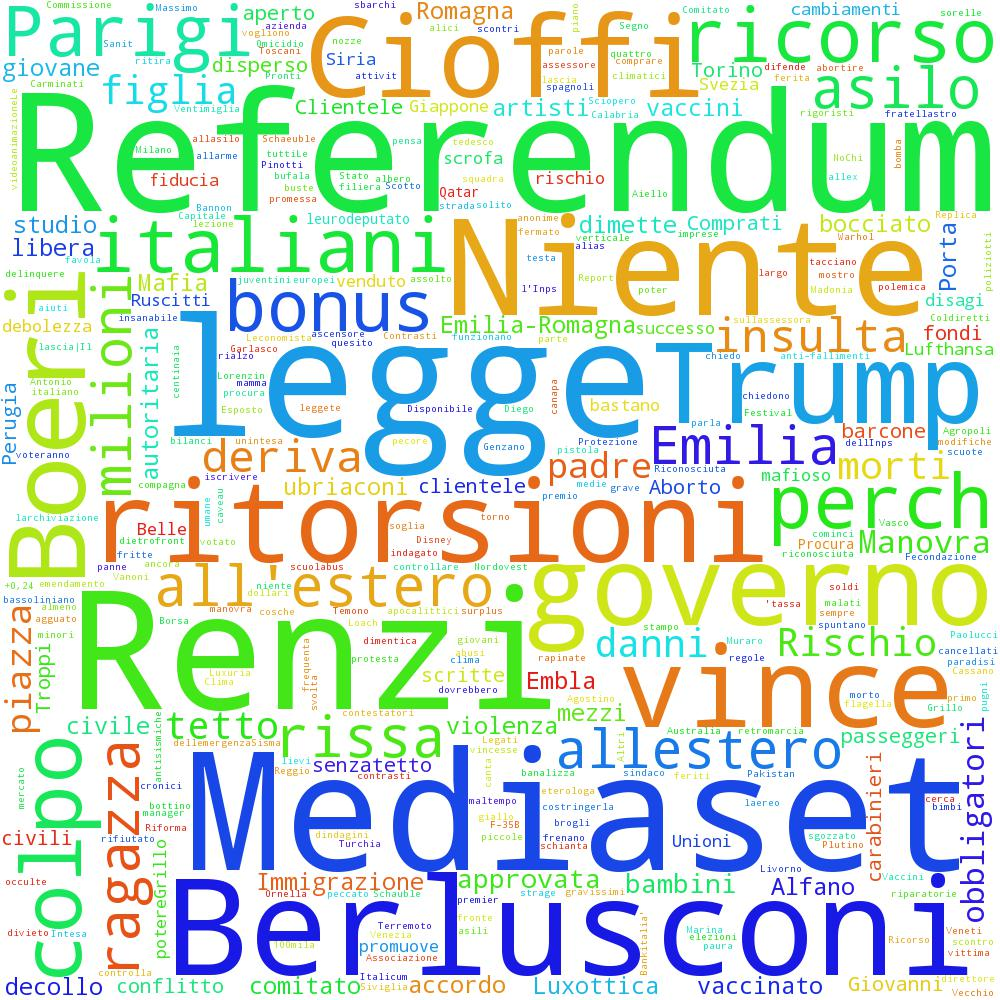
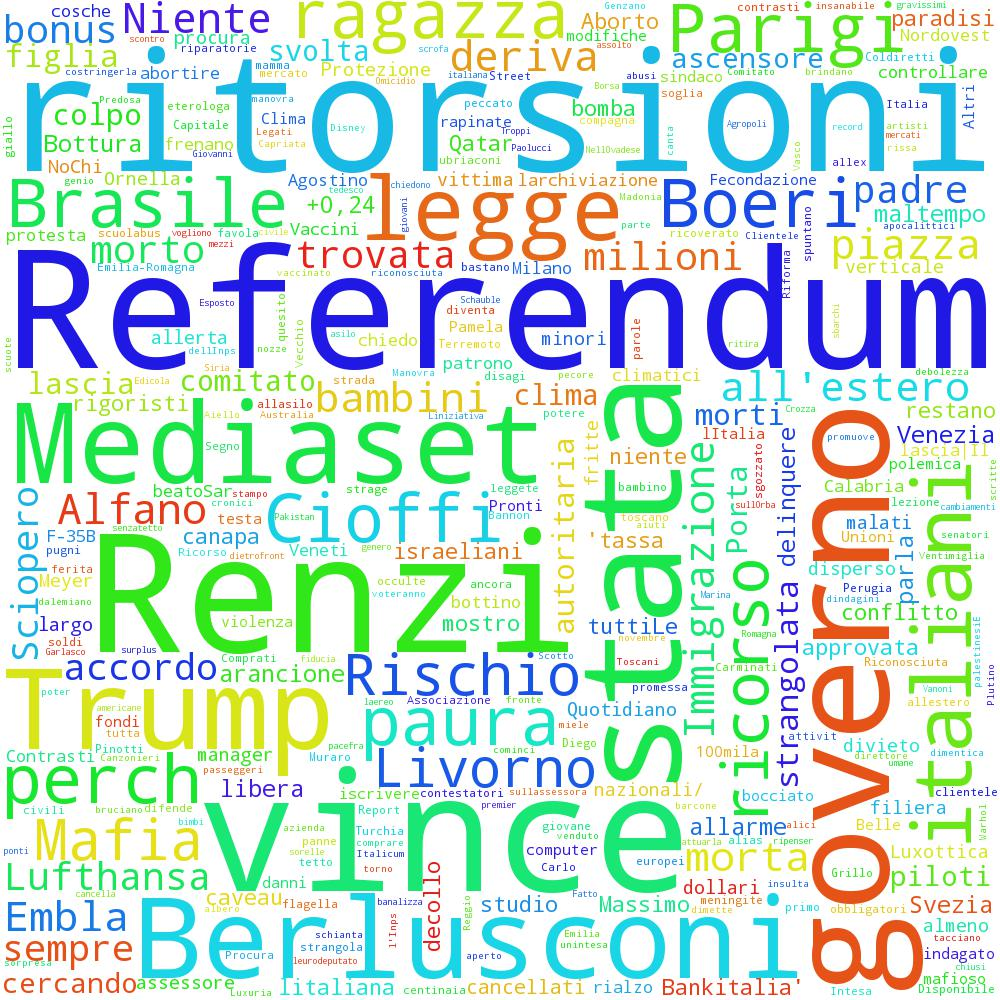
Store images and text related to daily news feed

diff --git a/cloud_maker.py b/cloud_maker.py
@@ -10,7 +10,7 @@ Usage:
     [ --max-font-size=<max-font-size> ]
     [ --canvas=<canvasstring> ]
     [ --color-func=<color-func-name>  --color-func-params=<color-func-params> ]
-    [--logconfig] [--loadconfig=<savedconfig>]
+    [--logconfig] [--loadconfig=<savedconfig>] [--run]
     [--encoding=<encoding>] [--language=<language>] [--min-len=<min-len>]
     [--max-words=<max-words>]
 
@@ -18,6 +18,7 @@ Options:
   -h --help     Show this screen.
   --version     Show vesion.
   --logconfig   Writes a log (<output>.cloudconfig.json)
+  --run         Run Crazy Stuffs.
   --loadconfig=<savedconfig>    Loads a config. Can be overridden with other arguments.
   --fa-mask=<fa-mask>     Use fontawesome mask.
   --ionic-mask=<ionic-mask> Use ionicons mask.
@@ -46,6 +47,8 @@ from copy import copy
 from docopt import docopt
 from clouds import compute_frequencies, save_cloud, make_mask, get_google_font, get_color_func
 from feedsreader import readfeeds
+import os
+import datetime
 import logging
 
 
@@ -134,6 +137,8 @@ if __name__ == '__main__':
 
     text = readfeeds(arguments['<textfile>'])
 
+
+
     logger.info('Feed readed text:\n%s' % text)
 
     frequencies = compute_frequencies(
@@ -170,6 +175,22 @@ if __name__ == '__main__':
         canvas_width=canvas_width,
         canvas_height=canvas_height,
     )
+
+    if arguments['--run']:
+        logger.info(' ... Running ...')
+        dailydir = 'dailyclouds/' + datetime.date.today().strftime("%Y%m%d")
+        os.mkdir(dailydir)
+        save_cloud(
+            frequencies,
+            dailydir + '/newsimage.jpg',
+            options=options,
+            color_func=None,
+            canvas_width=canvas_width,
+            canvas_height=canvas_height,
+        )
+        with open(dailydir + '/newstext.txt', "w") as f:
+            f.write(text)
+
 
     if arguments['--logconfig']:
         logger.info(' ... Writing config ...')
